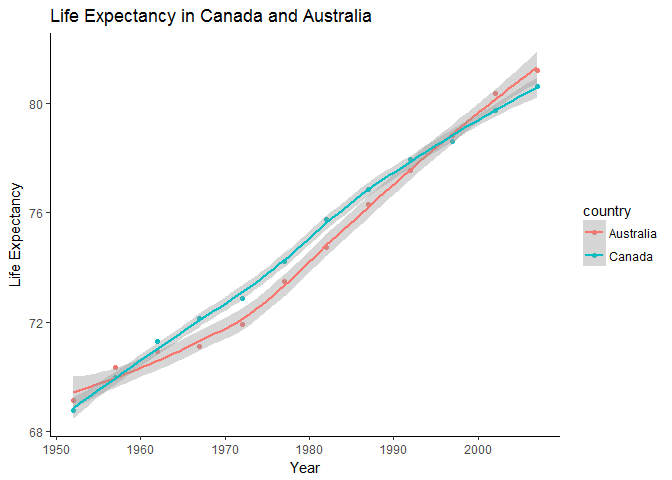
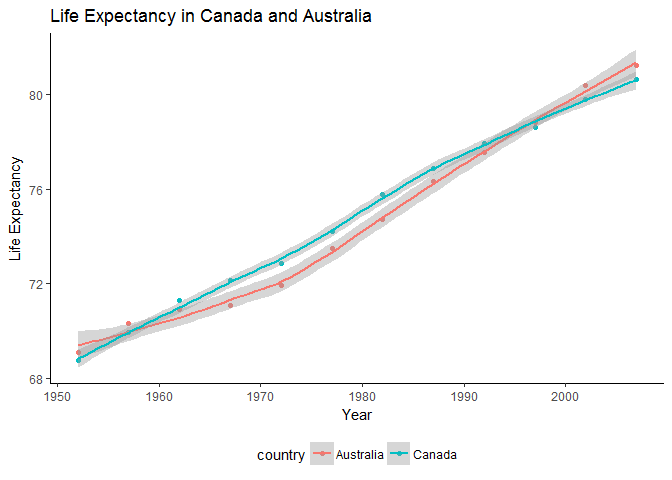
some minor adjustments

diff --git a/HW4/HW4.md b/HW4/HW4.md
@@ -11,25 +11,6 @@ Homework 4
 ``` r
 library(gapminder)
 library(tidyverse)
-```
-
-    ## Warning: package 'tidyverse' was built under R version 3.4.2
-
-    ## Loading tidyverse: ggplot2
-    ## Loading tidyverse: tibble
-    ## Loading tidyverse: tidyr
-    ## Loading tidyverse: readr
-    ## Loading tidyverse: purrr
-    ## Loading tidyverse: dplyr
-
-    ## Warning: package 'tidyr' was built under R version 3.4.2
-
-    ## Conflicts with tidy packages ----------------------------------------------
-
-    ## filter(): dplyr, stats
-    ## lag():    dplyr, stats
-
-``` r
 library(knitr)
 library(dplyr)
 ```
@@ -42,7 +23,7 @@ Activity \#1: Minimal guide to tidyr
 
 This is a minimal guide, mostly for myself, to remind me of the most import tidyr functions **gather** and **spread** functions that I'm familiar with. Also check out [A tidyr Tutorial](http://data.library.virginia.edu/a-tidyr-tutorial/).
 
-Start with installing the package using following commands **install.packages("tidyverse")** and **install.packages("tidyr")**.
+Start with installing the package using following commands **install.packages("tidyverse")** or **install.packages("tidyr")**.
 
 We will be using the **gapminder** data as our input. - Firstly, let's create a data frame to manipulate with:
 
@@ -80,7 +61,11 @@ continentsG
     ## 4    Europe 14469.476 n_countries     360
     ## 5   Oceania 18621.609 n_countries      24
 
-...or as we call it "melting data". ![](melting.png)
+...or as we call it "melting data".
+
+A picture is worth a thousand words!
+
+![](melting.png)
 
 Activity \#2: Make a tibble with one row per year and columns for life expectancy for two or more countries.
 ------------------------------------------------------------------------------------------------------------
@@ -94,35 +79,15 @@ leTbl <- select(filter(gapminder, country %in% c("Canada", "Australia")),
       arrange(country, year)
 #kable(leTbl, format = "markdown", caption = "Life Expectancy in Canada and Australia")
 
-knitr::kable(leTbl)
+head(knitr::kable(leTbl))
 ```
 
-|  year| country   | measure |   value|
-|-----:|:----------|:--------|-------:|
-|  1952| Australia | lifeExp |  69.120|
-|  1957| Australia | lifeExp |  70.330|
-|  1962| Australia | lifeExp |  70.930|
-|  1967| Australia | lifeExp |  71.100|
-|  1972| Australia | lifeExp |  71.930|
-|  1977| Australia | lifeExp |  73.490|
-|  1982| Australia | lifeExp |  74.740|
-|  1987| Australia | lifeExp |  76.320|
-|  1992| Australia | lifeExp |  77.560|
-|  1997| Australia | lifeExp |  78.830|
-|  2002| Australia | lifeExp |  80.370|
-|  2007| Australia | lifeExp |  81.235|
-|  1952| Canada    | lifeExp |  68.750|
-|  1957| Canada    | lifeExp |  69.960|
-|  1962| Canada    | lifeExp |  71.300|
-|  1967| Canada    | lifeExp |  72.130|
-|  1972| Canada    | lifeExp |  72.880|
-|  1977| Canada    | lifeExp |  74.210|
-|  1982| Canada    | lifeExp |  75.760|
-|  1987| Canada    | lifeExp |  76.860|
-|  1992| Canada    | lifeExp |  77.950|
-|  1997| Canada    | lifeExp |  78.610|
-|  2002| Canada    | lifeExp |  79.770|
-|  2007| Canada    | lifeExp |  80.653|
+    ## [1] " year  country     measure     value"
+    ## [2] "-----  ----------  --------  -------"
+    ## [3] " 1952  Australia   lifeExp    69.120"
+    ## [4] " 1957  Australia   lifeExp    70.330"
+    ## [5] " 1962  Australia   lifeExp    70.930"
+    ## [6] " 1967  Australia   lifeExp    71.100"
 
 -   A scatterplot of life expectancy for Canada against Australia.
 
@@ -133,7 +98,8 @@ ggplot(leTbl, aes(x=year, y=value, colour=country))+
   scale_x_continuous("Year") +
   scale_y_continuous("Life Expectancy") +
   labs(title = "Life Expectancy in Canada and Australia") +
-  theme_classic()
+  theme_classic() +
+  theme(legend.position = "bottom")
 ```
 
     ## `geom_smooth()` using method = 'loess'
@@ -217,7 +183,9 @@ head(knitr::kable(td.gapminder))
     ## [5] "Afghanistan                Asia         1962      60.06490  lifeExp    31.99700"
     ## [6] "Afghanistan                Asia         1967      60.06490  lifeExp    34.02000"
 
--   Inner Join. *Note: the countries not from our previously mentioned list in WDI will have NA instead of the values.*
+-   Inner Join.
+
+*Note: the countries that are not in our previously mentioned list in WDI will have NA instead of the values.*
 
 ``` r
 td.ij <- inner_join(td.gapminder,td.wdi,by="country")
